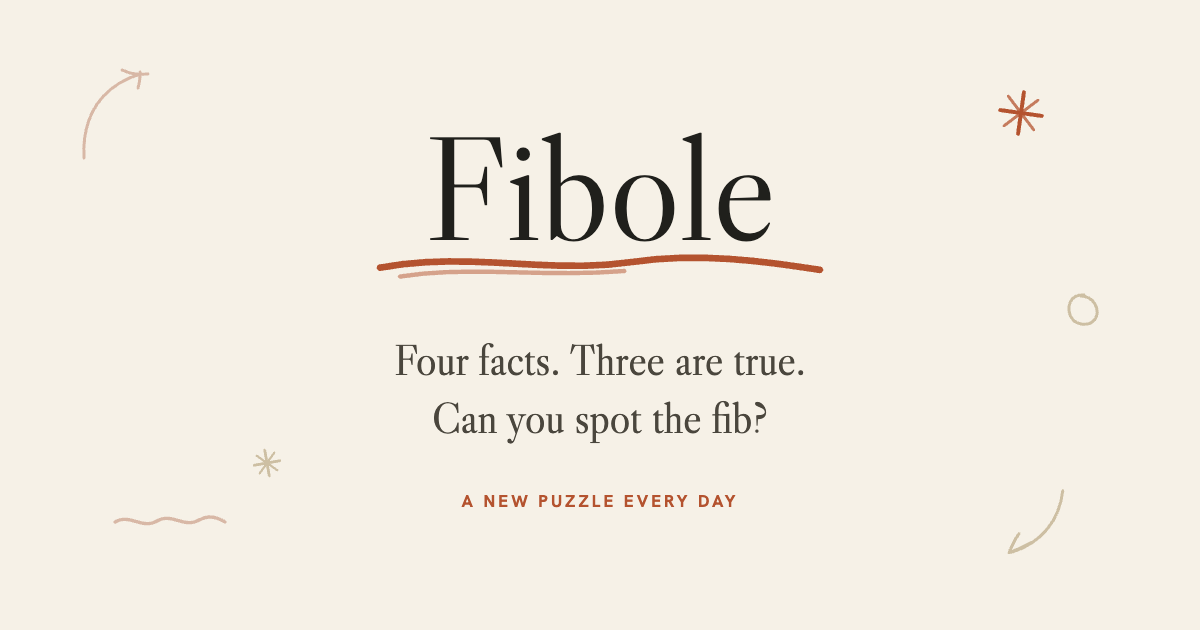
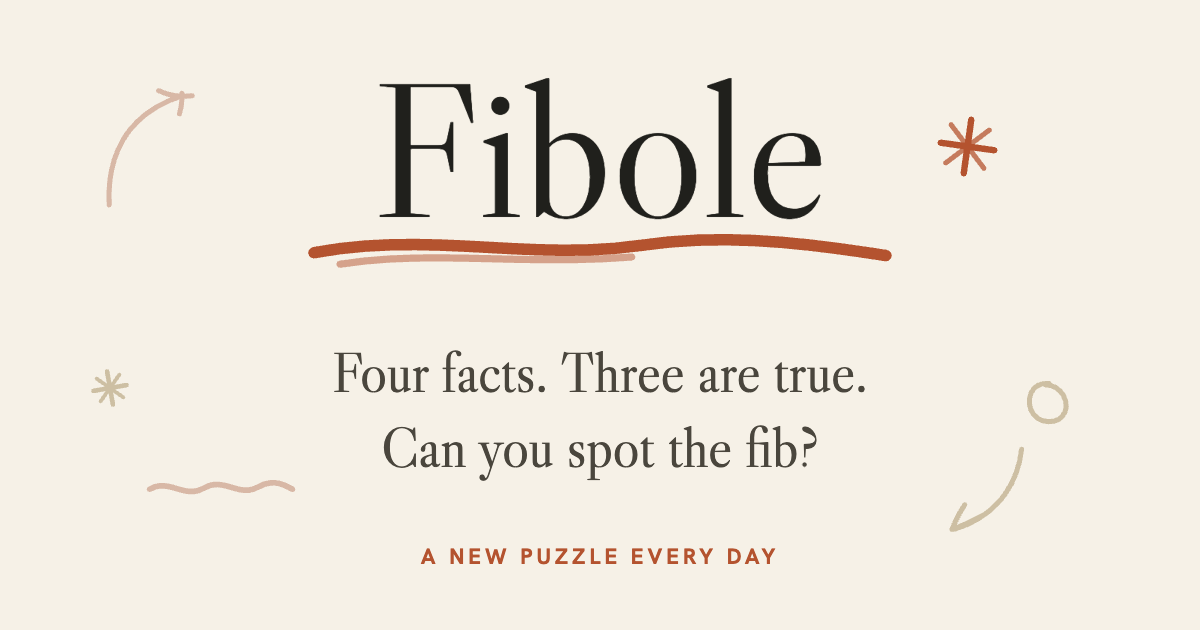
Scale OG image text and doodles 30% larger for iOS readability

diff --git a/scripts/generate-og-assets.ts b/scripts/generate-og-assets.ts
@@ -29,44 +29,44 @@ html, body { width: 1200px; height: 630px; overflow: hidden; }
 <body>
 <div style="width:1200px;height:630px;background:#f6f1e7;position:relative;overflow:hidden;display:flex;align-items:center;justify-content:center;">
   <!-- top-left corner flourish -->
-  <svg width="150" height="120" viewBox="0 0 150 120" fill="none" style="position:absolute;left:70px;top:58px;">
-    <path d="M14 100C12 64 26 30 70 16" stroke="#d8b8a6" stroke-width="3" stroke-linecap="round"/>
-    <path d="M52 12C60 16 68 17 78 16M68 30C70 24 70 18 70 14" stroke="#d8b8a6" stroke-width="3" stroke-linecap="round"/>
+  <svg width="195" height="156" viewBox="0 0 150 120" fill="none" style="position:absolute;left:91px;top:75px;">
+    <path d="M14 100C12 64 26 30 70 16" stroke="#d8b8a6" stroke-width="3.9" stroke-linecap="round"/>
+    <path d="M52 12C60 16 68 17 78 16M68 30C70 24 70 18 70 14" stroke="#d8b8a6" stroke-width="3.9" stroke-linecap="round"/>
   </svg>
   <!-- top-right asterisk spark -->
-  <svg width="58" height="58" viewBox="0 0 58 58" fill="none" style="position:absolute;right:150px;top:84px;transform:rotate(8deg);">
-    <path d="M29 8V50M8 29H50" stroke="#b4532f" stroke-width="4" stroke-linecap="round"/>
-    <path d="M14 14L44 44M44 14L14 44" stroke="#b4532f" stroke-width="3" stroke-linecap="round" opacity="0.75"/>
+  <svg width="75" height="75" viewBox="0 0 58 58" fill="none" style="position:absolute;right:195px;top:109px;transform:rotate(8deg);">
+    <path d="M29 8V50M8 29H50" stroke="#b4532f" stroke-width="5" stroke-linecap="round"/>
+    <path d="M14 14L44 44M44 14L14 44" stroke="#b4532f" stroke-width="3.9" stroke-linecap="round" opacity="0.75"/>
   </svg>
   <!-- right side little circle -->
-  <svg width="40" height="40" viewBox="0 0 40 40" fill="none" style="position:absolute;right:96px;top:290px;">
-    <path d="M20 5C10 4 4 11 5 21C6 30 14 36 24 34C32 32 36 23 31 14C28 9 23 6 17 6" stroke="#cdbfa3" stroke-width="3" stroke-linecap="round"/>
+  <svg width="52" height="52" viewBox="0 0 40 40" fill="none" style="position:absolute;right:125px;top:377px;">
+    <path d="M20 5C10 4 4 11 5 21C6 30 14 36 24 34C32 32 36 23 31 14C28 9 23 6 17 6" stroke="#cdbfa3" stroke-width="3.9" stroke-linecap="round"/>
   </svg>
   <!-- bottom-left squiggle -->
-  <svg width="120" height="26" viewBox="0 0 120 26" fill="none" style="position:absolute;left:110px;bottom:96px;">
-    <path d="M5 14C20 5 32 22 47 13C62 4 74 21 89 12C100 6 108 10 115 14" stroke="#d8b8a6" stroke-width="3.4" stroke-linecap="round"/>
+  <svg width="156" height="34" viewBox="0 0 120 26" fill="none" style="position:absolute;left:143px;bottom:125px;">
+    <path d="M5 14C20 5 32 22 47 13C62 4 74 21 89 12C100 6 108 10 115 14" stroke="#d8b8a6" stroke-width="4.4" stroke-linecap="round"/>
   </svg>
   <!-- bottom-right arrow doodle -->
-  <svg width="86" height="74" viewBox="0 0 86 74" fill="none" style="position:absolute;right:124px;bottom:70px;transform:rotate(-6deg);">
-    <path d="M76 8C70 36 50 58 18 64M40 56C30 60 24 62 16 64M28 46C22 53 19 59 16 64" stroke="#cdbfa3" stroke-width="3" stroke-linecap="round" stroke-linejoin="round"/>
+  <svg width="112" height="96" viewBox="0 0 86 74" fill="none" style="position:absolute;right:161px;bottom:91px;transform:rotate(-6deg);">
+    <path d="M76 8C70 36 50 58 18 64M40 56C30 60 24 62 16 64M28 46C22 53 19 59 16 64" stroke="#cdbfa3" stroke-width="3.9" stroke-linecap="round" stroke-linejoin="round"/>
   </svg>
   <!-- bottom-left small star -->
-  <svg width="34" height="34" viewBox="0 0 34 34" fill="none" style="position:absolute;left:250px;bottom:150px;transform:rotate(-10deg);">
-    <path d="M17 4V30M4 17H30" stroke="#cdbfa3" stroke-width="2.8" stroke-linecap="round"/>
-    <path d="M8 8L26 26M26 8L8 26" stroke="#cdbfa3" stroke-width="2.2" stroke-linecap="round"/>
+  <svg width="44" height="44" viewBox="0 0 34 34" fill="none" style="position:absolute;left:88px;bottom:220px;transform:rotate(-10deg);">
+    <path d="M17 4V30M4 17H30" stroke="#cdbfa3" stroke-width="3.6" stroke-linecap="round"/>
+    <path d="M8 8L26 26M26 8L8 26" stroke="#cdbfa3" stroke-width="2.9" stroke-linecap="round"/>
   </svg>
 
   <!-- centered brand block -->
   <div style="position:relative;z-index:1;text-align:center;display:flex;flex-direction:column;align-items:center;">
     <div style="position:relative;display:inline-block;">
-      <div style="font:400 148px/0.92 'Libre Caslon Display',serif;color:#20201c;">Fibole</div>
-      <svg width="470" height="40" viewBox="0 0 420 36" fill="none" style="position:absolute;left:50%;transform:translateX(-50%);bottom:-24px;">
-        <path d="M12 24C92 9 162 30 238 19C298 10 356 18 408 26" stroke="#b4532f" stroke-width="6" stroke-linecap="round"/>
-        <path d="M30 32C92 22 156 33 232 27" stroke="#b4532f" stroke-width="4" stroke-linecap="round" opacity="0.5"/>
+      <div style="font:400 192px/0.92 'Libre Caslon Display',serif;color:#20201c;">Fibole</div>
+      <svg width="611" height="52" viewBox="0 0 420 36" fill="none" style="position:absolute;left:50%;transform:translateX(-50%);bottom:-31px;">
+        <path d="M12 24C92 9 162 30 238 19C298 10 356 18 408 26" stroke="#b4532f" stroke-width="8" stroke-linecap="round"/>
+        <path d="M30 32C92 22 156 33 232 27" stroke="#b4532f" stroke-width="5" stroke-linecap="round" opacity="0.5"/>
       </svg>
     </div>
-    <div style="font:400 43px/1.35 'Libre Caslon Display',serif;color:#4a463d;margin-top:74px;">Four facts. Three are true.<br>Can you spot the fib?</div>
-    <div style="font:700 17px/1 'Hanken Grotesk',sans-serif;letter-spacing:0.18em;text-transform:uppercase;color:#b4532f;margin-top:46px;">A new puzzle every day</div>
+    <div style="font:400 56px/1.35 'Libre Caslon Display',serif;color:#4a463d;margin-top:96px;">Four facts. Three are true.<br>Can you spot the fib?</div>
+    <div style="font:700 22px/1 'Hanken Grotesk',sans-serif;letter-spacing:0.18em;text-transform:uppercase;color:#b4532f;margin-top:60px;">A new puzzle every day</div>
   </div>
 </div>
 </body>